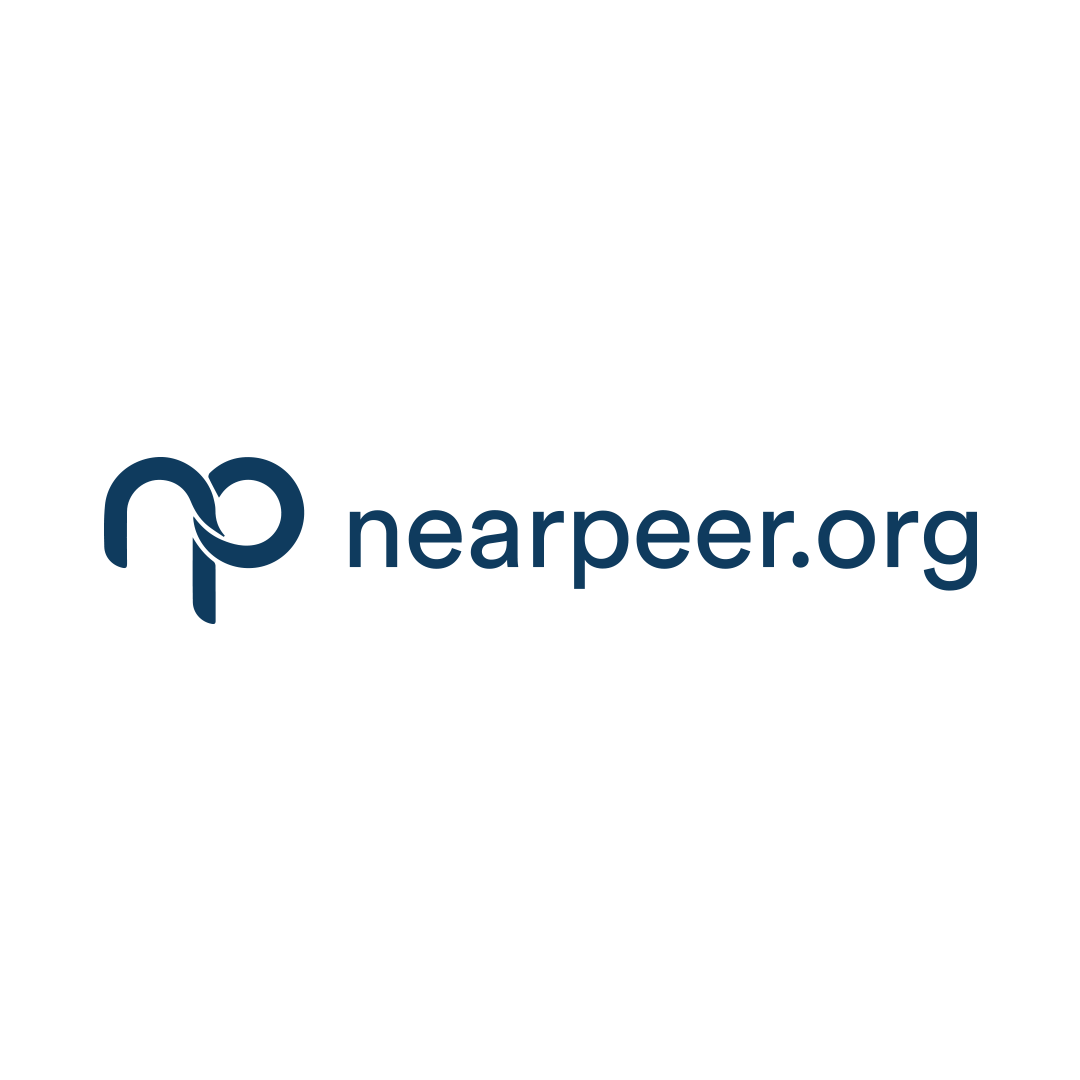
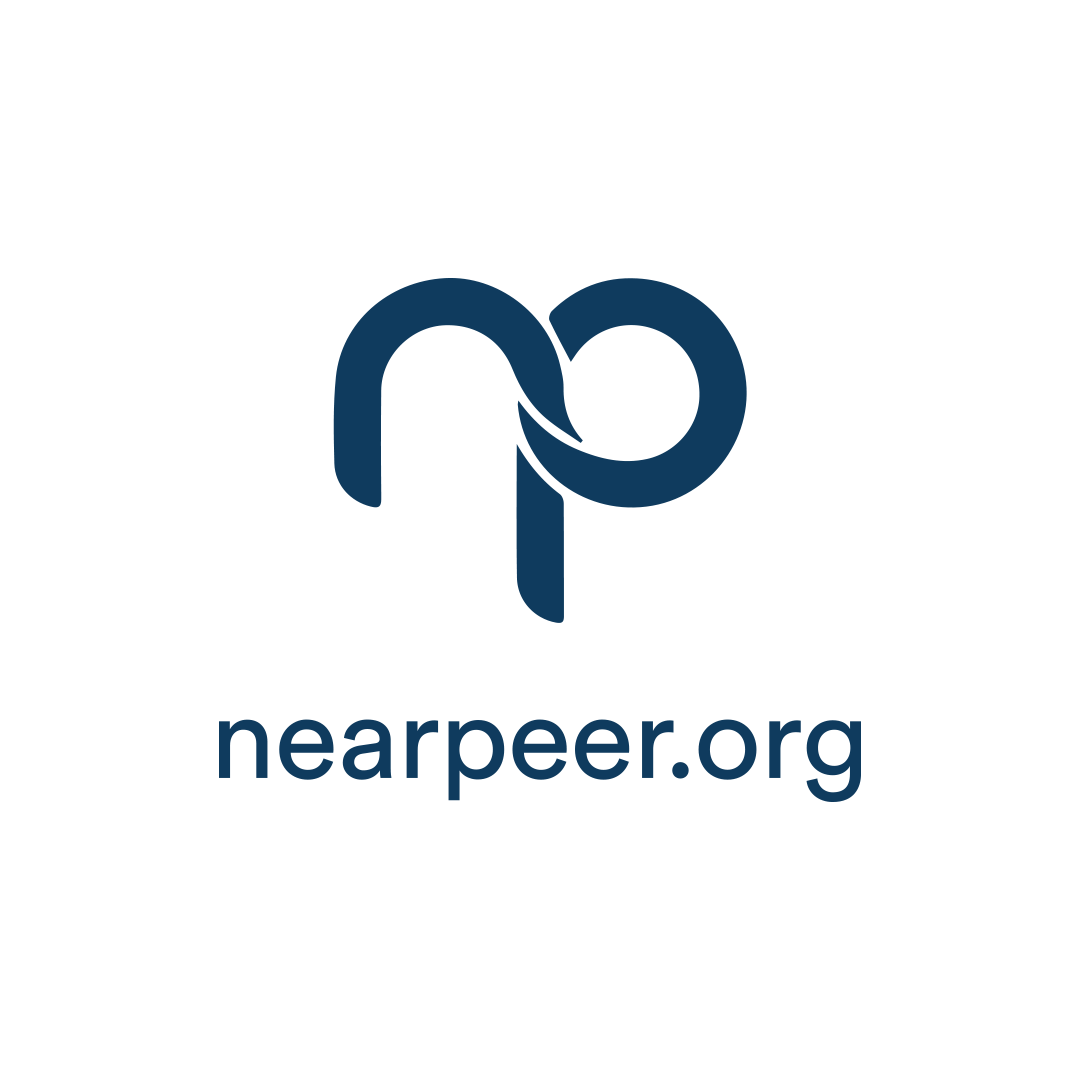
mobile responsiveness added

Changed region(s): [[0.0917, 0.2444, 0.9167, 0.5806], [0.1833, 0.6417, 0.7944, 0.7639]]

diff --git a/index.html b/index.html
@@ -1,6 +1,7 @@
 <html>
 
 <head>
+    <meta name="viewport" content="width=device-width, initial-scale=1.0">
     <title>MDCAT Merit Calculator</title>
 
     <style>
@@ -34,6 +35,13 @@
         h1 {
             margin-top: 0;
             font-weight: 500;
+        }
+
+        .logo {
+
+            margin: 0 auto;
+            float: none;
+            display: block;
         }
 
         form {
@@ -162,19 +170,19 @@
 </head>
 
 <body>
-    <div class="navbar">
-        <a href="https://www.nearpeer.org/">
-            <img src="4.png" alt="Italian Trulli" width="300" height="300">
-        </a>
 
-    </div>
     <form class="decor">
         <div class="form-left-decoration"></div>
         <div class="form-right-decoration"></div>
         <div class="circle"></div>
         <div class="form-inner">
-            <h2>MDCAT Merit Calculator </h2>
 
+            <div class="center">
+                <a href="https://www.nearpeer.org/" class="center">
+                    <img src="4.png" alt="Italian Trulli" class="logo" height="200">
+                </a>
+            </div>
+            <h2>MDCAT Merit Calculator </h2>
             <h3> Add your SSC, HSSC & MDCAT scores to evaluate your </h3>
             <h3>aggregate as per PMC aggregate formula for MDCAT 2022.</h3>.
             </p>
